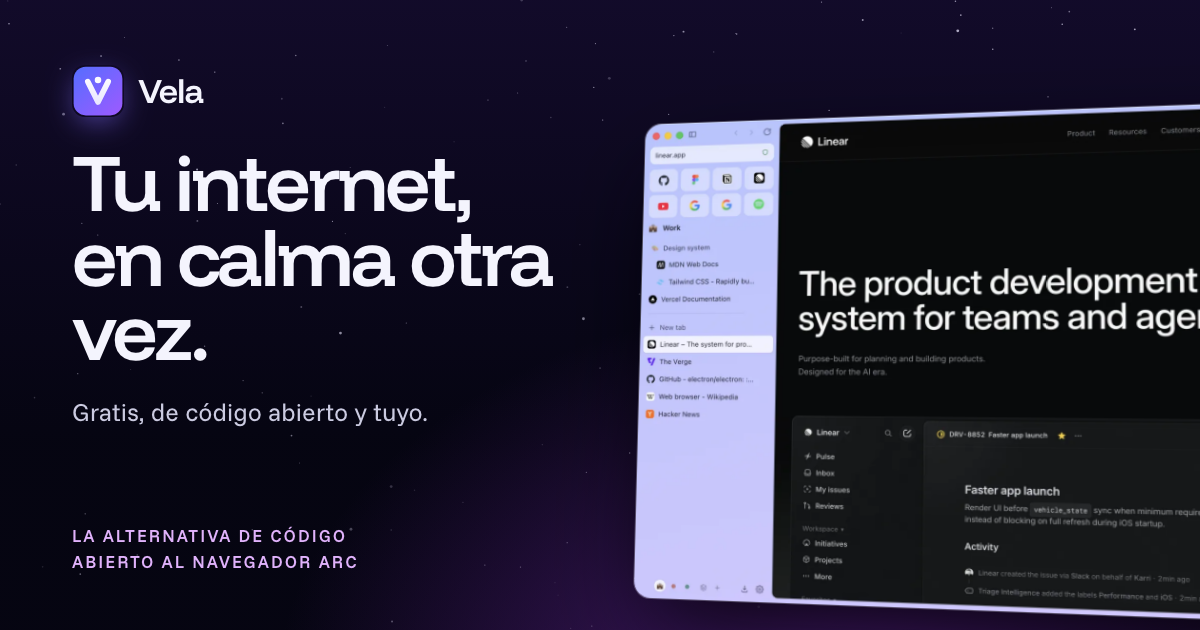
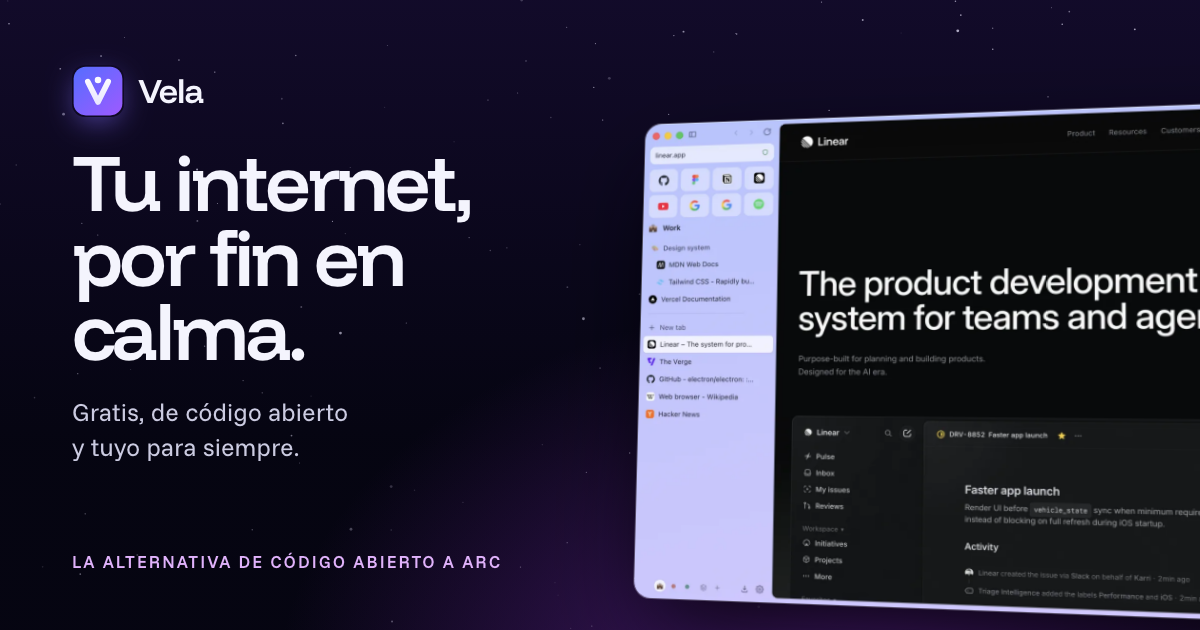
fix(site): French and Spanish copy rewritten to read natively
The French and Spanish pages were translated phrase by phrase from English
("la maison open source", "el hogar de código abierto"). Every string is
rewritten as it would be written in that language, benchmark numbers and
gains follow each language's conventions (7,6×, 3 149 Mo, 5,9 %), and the
French and Spanish share images are regenerated.

diff --git a/site/src/index.html b/site/src/index.html
@@ -237,13 +237,15 @@
               <dd>
                 <span class="bar arc"
                   ><span class="who">Arc</span
-                  ><span class="track"><i></i><span class="val">2058 ms</span></span></span
+                  ><span class="track"><i></i><span class="val">{{proof.values.arcLaunch}}</span></span></span
                 >
                 <span class="bar vela"
                   ><span class="who">Vela</span
-                  ><span class="track"><i></i><span class="val">271 ms</span></span></span
+                  ><span class="track"
+                    ><i></i><span class="val">{{proof.values.velaLaunch}}</span></span
+                  ></span
                 >
-                <span class="gain">7.6× {{proof.faster}}</span>
+                <span class="gain">{{proof.gains.launch}}</span>
               </dd>
             </div>
             <div class="bar-row rv d1" style="--arc: 1; --vela: 0.5005">
@@ -251,13 +253,13 @@
               <dd>
                 <span class="bar arc"
                   ><span class="who">Arc</span
-                  ><span class="track"><i></i><span class="val">3149 MB</span></span></span
+                  ><span class="track"><i></i><span class="val">{{proof.values.arcMem}}</span></span></span
                 >
                 <span class="bar vela"
                   ><span class="who">Vela</span
-                  ><span class="track"><i></i><span class="val">1576 MB</span></span></span
+                  ><span class="track"><i></i><span class="val">{{proof.values.velaMem}}</span></span></span
                 >
-                <span class="gain">−50% {{proof.less}}</span>
+                <span class="gain">{{proof.gains.memory}}</span>
               </dd>
             </div>
             <div class="bar-row rv d2" style="--arc: 1; --vela: 0.0532">
@@ -265,13 +267,13 @@
               <dd>
                 <span class="bar arc"
                   ><span class="who">Arc</span
-                  ><span class="track"><i></i><span class="val">111%</span></span></span
+                  ><span class="track"><i></i><span class="val">{{proof.values.arcCpu}}</span></span></span
                 >
                 <span class="bar vela"
                   ><span class="who">Vela</span
-                  ><span class="track"><i></i><span class="val">5.9%</span></span></span
+                  ><span class="track"><i></i><span class="val">{{proof.values.velaCpu}}</span></span></span
                 >
-                <span class="gain">−95% {{proof.less}}</span>
+                <span class="gain">{{proof.gains.cpu}}</span>
               </dd>
             </div>
             <div class="bar-row rv d3" style="--arc: 1; --vela: 0.25">
@@ -279,13 +281,15 @@
               <dd>
                 <span class="bar arc"
                   ><span class="who">Arc</span
-                  ><span class="track"><i></i><span class="val">12 ms</span></span></span
+                  ><span class="track"><i></i><span class="val">{{proof.values.arcSwitch}}</span></span></span
                 >
                 <span class="bar vela"
                   ><span class="who">Vela</span
-                  ><span class="track"><i></i><span class="val">3 ms</span></span></span
+                  ><span class="track"
+                    ><i></i><span class="val">{{proof.values.velaSwitch}}</span></span
+                  ></span
                 >
-                <span class="gain">4× {{proof.faster}}</span>
+                <span class="gain">{{proof.gains.switch}}</span>
               </dd>
             </div>
           </dl>

diff --git a/site/src/assets/site.css b/site/src/assets/site.css
@@ -816,7 +816,7 @@ section {
   display: grid;
   gap: 10px;
   margin: 0;
-  padding-right: 150px;
+  padding-right: 250px;
 }
 .bar {
   display: grid;
@@ -884,12 +884,14 @@ section {
   right: 0;
   top: 50%;
   transform: translateY(-50%);
+  width: 220px;
   font-family: var(--f-display);
-  font-size: 1.5rem;
+  font-size: 1.35rem;
   font-weight: 600;
   letter-spacing: -0.02em;
+  line-height: 1.15;
+  text-align: right;
   color: var(--ink);
-  white-space: nowrap;
 }
 
 /* features */
